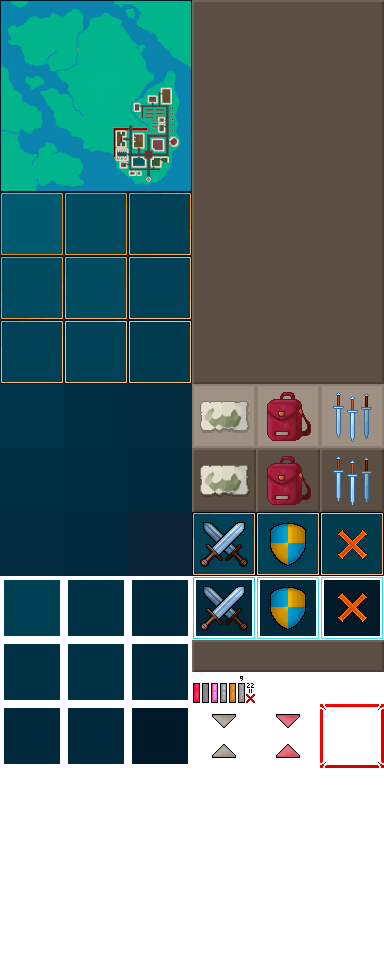
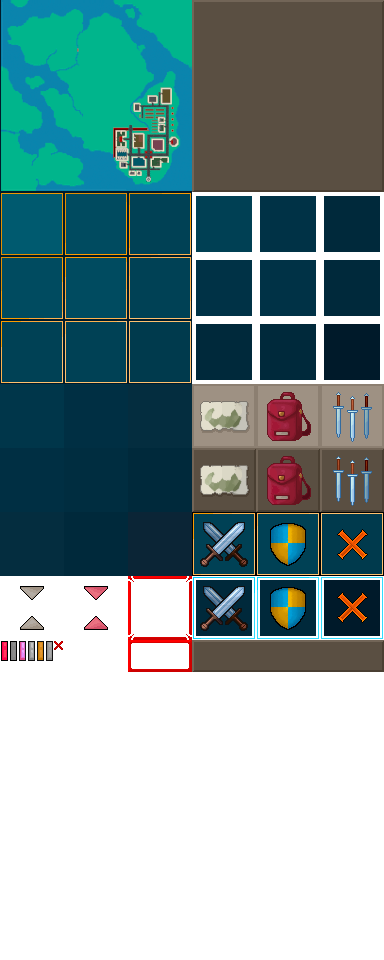
drawing ui as desired... current issue is transferring items from equip section to inventory

diff --git a/index.js b/index.js
@@ -125,7 +125,7 @@ const drawArea = (currentMap = resources.mapData.isLoaded && resources.mapData.g
 };
 
 const drawUi = () => {
-  const { image, pixels, top, inventory, toggle, stance, state } = uiElements;
+  const { image, pixels, top, inventory, toggle, stance } = uiElements;
   const uiXOffset = renderArea.width + 4; // Add 4-pixel gap from the renderArea width
   
   // Clear UI section
@@ -151,7 +151,15 @@ const drawUi = () => {
 
   // Draw static UI sections
   drawSection(toggle.sprite, toggle.location); // Map, Inventory, Player toggle bar
-  drawSection(inventory.sprite, inventory.location, inventory.location.width, inventory.location.height); // Content area background
+  
+  const sectionCount = uiState === 'player' ? 6 : 7; // Player UI has 6 sections, others have 7
+  ctx.clearRect(renderArea.width, 256, 192, sectionCount * 64);
+
+  for (let i = 0; i < sectionCount; i++) {
+    const spriteY = i === 0 ? 0 : i === sectionCount - 1 ? 128 : 64;
+    ctx.drawImage(uiElements.image, 192, spriteY, 192, 64, renderArea.width, 256 + i * 64, 192, 64);
+  };
+  
   if (uiState === 'player') drawSection(stance.sprite, stance.location); // Offense, Defense, Passive buttons
 
   // Draw current toggle section
@@ -166,7 +174,6 @@ const drawUi = () => {
   } else if (uiState === 'inventory') {
     drawTopSectionAndButton(top.equipArea, toggle.inventoryButton, toggle.inventoryButtonLocation);
     drawInventory();
-    // Populate content for inventory toggle if needed
   } else if (uiState === 'player') {
     drawTopSectionAndButton(top.playerDetails, toggle.playerButton, toggle.playerButtonLocation);
     // Populate content for player toggle if needed
@@ -214,11 +221,13 @@ const drawInventory = () => {
   const primary = inventorySlots.primary;
   const secondary = inventorySlots.secondary;
 
-  // Clear and draw inventory background
-  // if (uiState === 'map' || uiState === 'player') {
-    ctx.clearRect(renderArea.width, 256, 192, 384);
-    ctx.drawImage(uiElements.image, 192, 0, 192, 384, renderArea.width, 256, 192, 384);
-  // };
+  const sectionCount = uiState === 'player' ? 6 : 7; // Player UI has 6 sections, others have 7
+  ctx.clearRect(renderArea.width, 256, 192, sectionCount * 64);
+
+  for (let i = 0; i < sectionCount; i++) {
+    const spriteY = i === 0 ? 0 : i === sectionCount - 1 ? 128 : 64;
+    ctx.drawImage(uiElements.image, 192, spriteY, 192, 64, renderArea.width, 256 + i * 64, 192, 64);
+  };
 
   if (uiState === 'inventory' && inventory.one.open) {
     ctx.clearRect(renderArea.width, 256, 192, 448);
@@ -238,6 +247,12 @@ const drawInventory = () => {
     const slots = section === 1 ? primary.slots : secondary.slots;
 
     const drawInventorySlot = (x,y) => {
+      // if (uiState === 'inventory' && inventory.one.open) {
+        // ctx.clearRect(renderArea.width, 256, 192, 448);
+        // ctx.fillStyle = "white";
+        // ctx.fillRect(renderArea.width, 256, 192, 448);
+      // };
+
       ctx.fillStyle = "lightgray";
       ctx.fillRect(x, y, size, size);
   
@@ -466,7 +481,16 @@ const moveToInventory = (item, container) => {
   if (container.contents.length >= container.stats.slots) return;
 
   // Prevent adding duplicate items
-  if (container.contents.includes(item)) return;
+  if (container.contents.includes(item)) {
+    const index = container.contents.findIndex(curr => curr.id === item.id);
+
+    if(index > -1) {
+      container.contents.splice(index, 1);
+      container.contents.push(item);
+    };
+    
+    return;
+  };
 
   // Remove item from equipped section if applicable
   if (player.data.details.equipped[item.type] === item) {

diff --git a/src/components/stats.js b/src/components/stats.js
@@ -2,8 +2,8 @@ export const characterSheet = (player) => {
   const container = document.querySelector(".player-details-container");
   if (!container) return;
 
-  const currOffense = player.details.equipped.mainhand;
-  const currDefense = player.details.equipped.offhand;
+  const currOffense = player.details.equipped.mainhand || null;
+  const currDefense = player.details.equipped.offhand || null;
   
   container.innerHTML = `
     <div class="player-details-container-border noselect">

diff --git a/src/utils/classes.js b/src/utils/classes.js
@@ -108,10 +108,6 @@ export class UiElements {
       strength: {},
       xmark: {}
     };
-    this.state = {
-      activeToggle: 'inventory',
-      activeStance: 'passive'
-    };
   };
 
   loadImage() {
